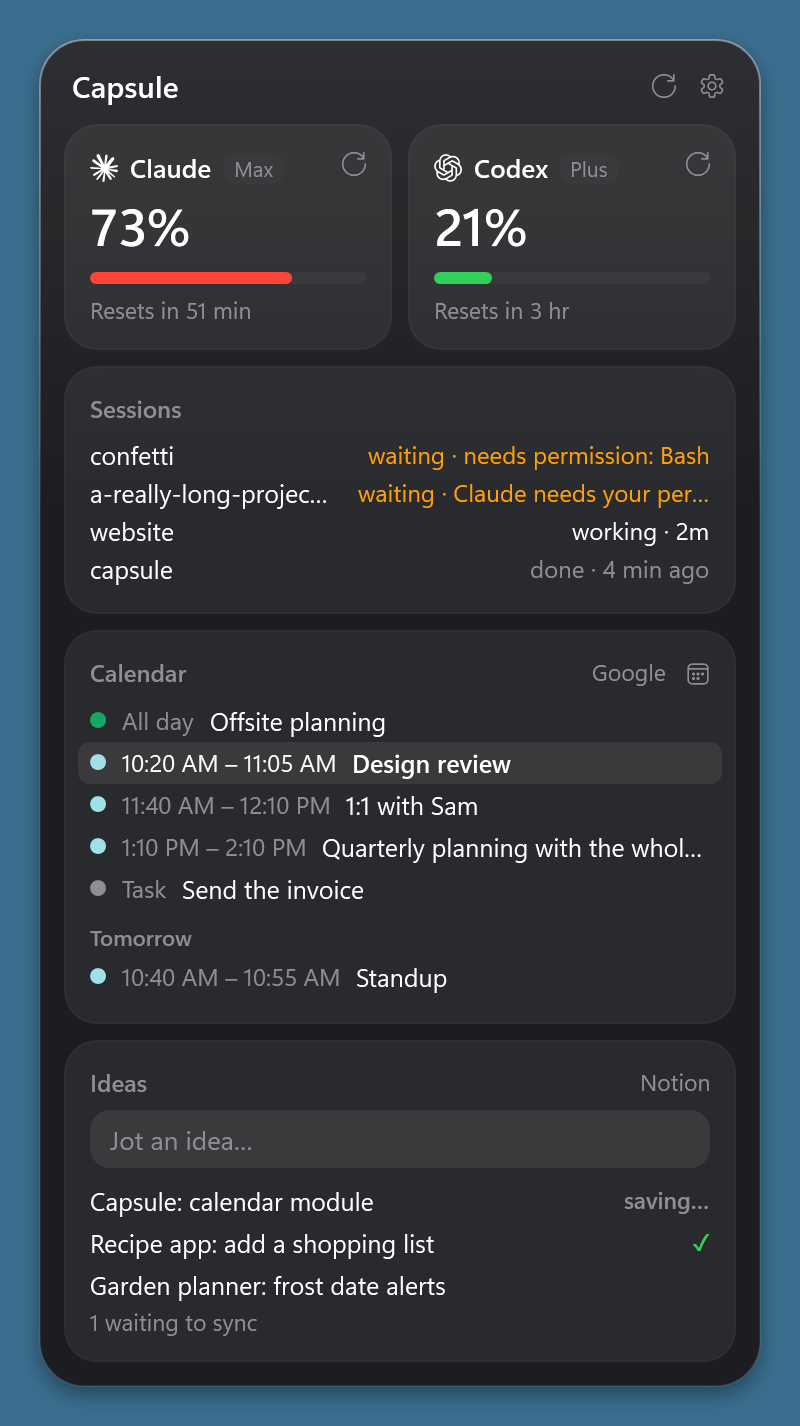
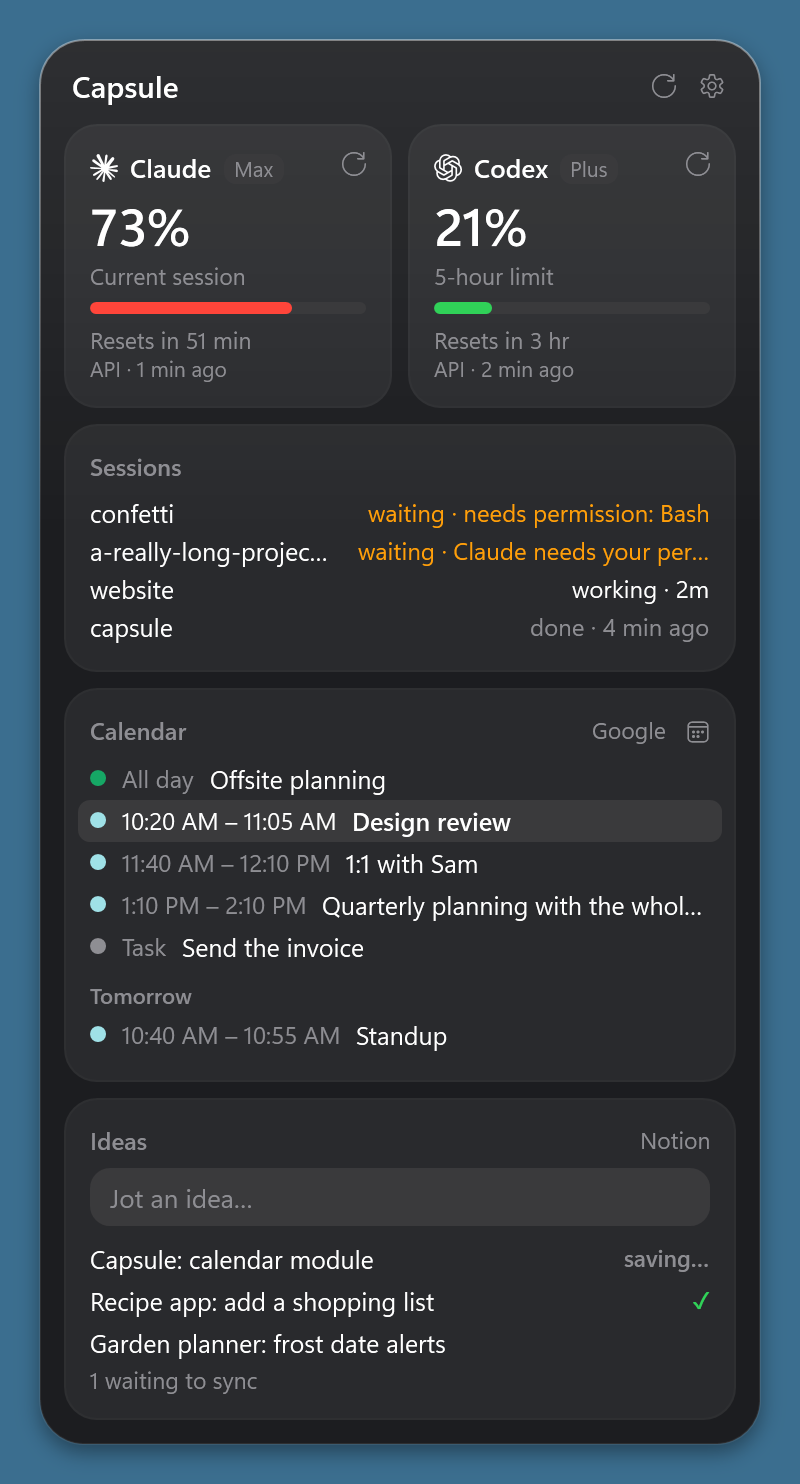
Keep usage bars proportional in narrow scrolling tiles

diff --git a/src/CardView.cs b/src/CardView.cs
@@ -231,25 +231,28 @@ namespace Capsule
             top.Children.Add(reset);
             top.Children.Add(MakeText(row.Label, 13, Palette.Text, FontWeights.Normal));
             box.Children.Add(top);
-            box.Children.Add(Bar(row.Used, row.Color, CardWidth - 2 * Inset));
+            box.Children.Add(Bar(row.Used, row.Color));
             box.Children.Add(MakeText(row.UsedText, 12, Palette.Text, FontWeights.Normal));
             return box;
         }
 
         // A usage bar: the track, and the used part in its colour. Shared with the panel's tiles.
-        public static Grid Bar(double used, string color, double width)
+        public static Grid Bar(double used, string color)
         {
             var bar = new Grid { Height = 6, Margin = new Thickness(0, 6, 0, 5) };
-            bar.Children.Add(new Border { Background = NotchView.Brush(Palette.Track), CornerRadius = new CornerRadius(3) });
             double fraction = Math.Max(0, Math.Min(100, used)) / 100;
+            bar.ColumnDefinitions.Add(new ColumnDefinition { Width = new GridLength(fraction, GridUnitType.Star) });
+            bar.ColumnDefinitions.Add(new ColumnDefinition { Width = new GridLength(1 - fraction, GridUnitType.Star) });
+            var track = new Border { Background = NotchView.Brush(Palette.Track), CornerRadius = new CornerRadius(3) };
+            Grid.SetColumnSpan(track, 2);
+            bar.Children.Add(track);
             if (fraction > 0)
             {
                 bar.Children.Add(new Border
                 {
                     Background = NotchView.Brush(color),
                     CornerRadius = new CornerRadius(3),
-                    HorizontalAlignment = HorizontalAlignment.Left,
-                    Width = Math.Max(6, fraction * width),
+                    MinWidth = 6,
                 });
             }
             return bar;

diff --git a/src/PanelView.cs b/src/PanelView.cs
@@ -23,9 +23,6 @@ namespace Capsule
         const string ClientHint = "From your own Google Cloud OAuth client (Desktop app). Or paste its downloaded JSON into Client ID: it fills both.";
         const string ClientSecretPendingHint = "Secret kept for the next sign-in. Paste a new one to replace it.";
         const string LinkHint = "Read-only events. No Google Tasks or event changes. In Google Calendar on the web: Settings → your calendar → Integrate calendar → Secret address in iCal format.";
-        // A small tile's inside: half the board less the gap, its padding and its 1-px border.
-        public const double SmallInner = (PanelWidth - 2 * Pad - Gap) / 2 - 2 * TilePad - 2;
-
         readonly GlassSurface glass = new GlassSurface();
         readonly StackPanel board = new StackPanel();
         readonly ScrollViewer boardScroll = BodyScroll();
@@ -770,7 +767,7 @@ namespace Capsule
                 if (t.Dimmed) percent.Opacity = 0.45;
                 box.Children.Add(percent);
                 if (t.WindowLabel != "") box.Children.Add(CardView.Wrap(CardView.MakeText(t.WindowLabel, 11.5, Palette.Secondary, FontWeights.Normal)));
-                if (t.ShowBar) box.Children.Add(CardView.Bar(t.Used, t.Color, SmallInner));
+                if (t.ShowBar) box.Children.Add(CardView.Bar(t.Used, t.Color));
                 if (t.ResetText != "") box.Children.Add(CardView.MakeText(t.ResetText, 11.5, Palette.Secondary, FontWeights.Normal));
                 if (t.Freshness != "") box.Children.Add(CardView.Wrap(CardView.MakeText(t.Freshness, 10.5, Palette.Secondary, FontWeights.Normal)));
             }

diff --git a/tests/CardViewTests.cs b/tests/CardViewTests.cs
@@ -19,6 +19,19 @@ namespace Capsule
             LongTextStaysInsideTheSessionRow();
             OutlineHoldsTheCardAndItsPointer();
             ShadowIsDrawnOutsideTheCard();
+            BarsFollowTheirActualWidth();
+        }
+
+        static void BarsFollowTheirActualWidth()
+        {
+            Grid bar = CardView.Bar(50, Palette.Green);
+            foreach (double width in new[] { 120.0, 80.0 })
+            {
+                bar.Measure(new Size(width, 17));
+                bar.Arrange(new Rect(0, 0, width, 17));
+                bar.UpdateLayout();
+                TestRunner.Near(width / 2, ((Border)bar.Children[1]).ActualWidth, "50% stays half the visible track when scrolling reduces the tile width");
+            }
         }
 
         static Reading ClaudeReading()
